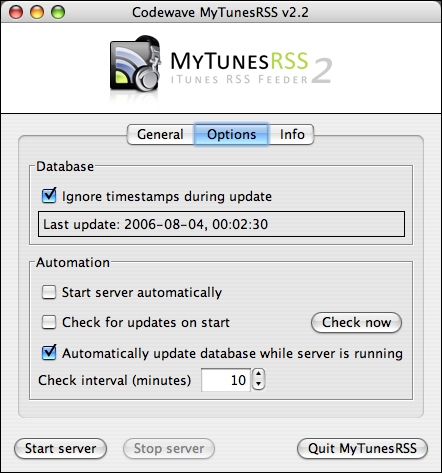
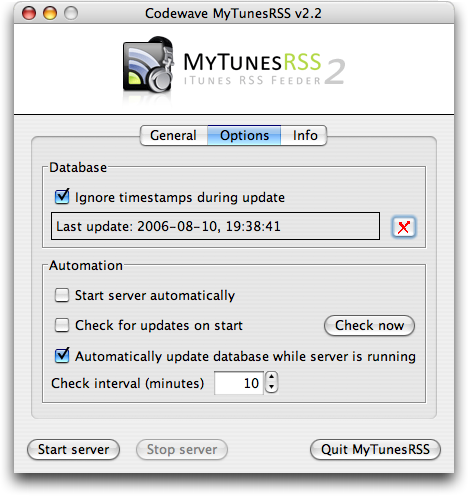
git-svn-id: svn://127.0.0.1/MyTunesRss/trunk@1272 6cd82e91-2702-0410-863d-86aa3370aca5

Changed region(s): [[0.0, 0.0, 1.0, 1.0]]

diff --git a/etc/documentation/docs/de/config.html b/etc/documentation/docs/de/config.html
@@ -14,103 +14,105 @@
 
 <div id="body">
 
-    <div id="content">
+<div id="content">
 
-        <div id="sidebar">
+    <div id="sidebar">
 
-            <ul class="links">
-                <li><a href="intro.html">Einführung</a></li>
-                <li><a href="sysreqs.html">Systemanforderungen</a></li>
-                <li><a href="versions.html">Versionshistorie</a></li>
-                <li><a href="startup.html">MyTunesRSS starten</a></li>
-                <li><a href="config.html">Die Konfiguration</a></li>
-                <li><a href="web_intro.html">Die Webanwendung</a></li>
-                <ul class="sub">
-                    <li><a href="web_login.html">Login</a></li>
-                    <li><a href="web_portal.html">Portal</a></li>
-                    <li><a href="web_settings.html">Einstellungen</a></li>
-                    <li><a href="web_browse.html">Bibliothek durchsuchen</a></li>
-                    <li><a href="web_playlists.html">MyTunesRSS Playlisten</a></li>
-                </ul>
-                <li><a href="license.html">Lizenzen</a></li>
-                <ul class="sub">
-                    <li><a href="lic_tomcat.html">Tomcat</a></li>
-                    <li><a href="lic_hsqldb.html">HSQL database engine</a></li>
-                    <li><a href="lic_systray.html">Systray4j Projekt</a></li>
-                    <li><a href="lic_jid3lib.html">Java MP3 ID3 Tag Library</a></li>
-                </ul>
-                <li><a href="outro.html">Kontakt</a></li>
+        <ul class="links">
+            <li><a href="intro.html">Einführung</a></li>
+            <li><a href="sysreqs.html">Systemanforderungen</a></li>
+            <li><a href="versions.html">Versionshistorie</a></li>
+            <li><a href="startup.html">MyTunesRSS starten</a></li>
+            <li><a href="config.html">Die Konfiguration</a></li>
+            <li><a href="web_intro.html">Die Webanwendung</a></li>
+            <ul class="sub">
+                <li><a href="web_login.html">Login</a></li>
+                <li><a href="web_portal.html">Portal</a></li>
+                <li><a href="web_settings.html">Einstellungen</a></li>
+                <li><a href="web_browse.html">Bibliothek durchsuchen</a></li>
+                <li><a href="web_playlists.html">MyTunesRSS Playlisten</a></li>
             </ul>
-
-        </div>
-
-        <h1>Die Konfiguration</h1>
-
-        <p>
-            Nach dem Start der Anwendung sehen Sie die Konfigurationsoberfläche. Die Einstellungen sind auf drei Seiten verteilt. Auf der ersten Seite
-            befinden sich die allgemeinen Einstellungen. </p>
-        <img src="images/general.png" alt="Allgemeine Einstellungen" />
-
-        <p>
-            Sie können den Port, auf dem der Server auf Verbindungen wartet, frei wählen. Der Standardport 8080 des Servers sollte in den meisten
-            Fällen problemlos funktionieren. Auf manchen Systemen kann die Benutzung von Portnummern unter 1024 eingeschränkt sein. </p>
-
-        <p>
-            Sie müssen zur Sicherheit ein Kennwort für den Zugriff auf die Webapplikation vergeben. Ohne ein Kennwort kann der Server nicht gestartet
-            werden. Das Kennwort wird unverschlüsselt gespeichert. Verwenden Sie daher bitte möglichst kein Kennwort, das sie an anderer Stelle für
-            den Schutz von kritischen Daten verwenden. </p>
-
-        <p>
-            Im unteren Teil der allgemeinen Einstellungen müssen Sie den Pfad zu der Datei "iTunes Music Library.xml" auf Ihrem System angeben. Sie
-            können den Pfad direkt in das Eingabefeld schreiben oder mit dem (...) Knopf suchen und auswählen. Unter Windows liegt diese Datei
-            normalerweise im Order "iTunes" unter "Eigene Musik". Auf Mac OS X sollte sie unter "iTunes" im Order "Musik" zu finden sein. </p>
-        <img src="images/options.png" alt="Optionen" />
-
-        <p>
-            Auf der zweiten Seite finden Sie weitere Optionen. Als oberstes wird der Status der in MyTunesRSS integrierten Datenbank angezeigt. In
-            dieser Datenbank hält MyTunesRSS eine Kopie der Daten aus der "iTunes Music Library.xml". Diese Datenbank wird automatisch beim Start des
-            Servers erzeugt bzw. aktualisiert. Normalerweise werden nur Titel aktualisiert, die ein Änderungsdatum nach dem Datum des letzten Updates
-            haben. Unter bestimmten Umständen kann es vorkommen, dass iTunes Daten ändert, ohne das Änderungsdatum zu aktualisieren. Wenn Sie
-            feststellen, dass MyTunesRSS nicht die aktuellen Daten anzeigt, wählen Sie einfach die Option zum Ignorieren der Zeitstempel. Ein
-            Datenbankupdate wird dann je nach Größe Ihrer iTunes Bibliothek länger dauern. Wenn sie feststellen, dass das Update mit gewählter Option
-            schnell genug ist, können Sie sie auch gewählt lassen, um sicher zu sein, dass die Daten in MyTunesRSS immer aktuell sind.</p>
-
-        <p>
-            Unter "Automatisierung" könnnen Sie wählen, ob der integrierte Server beim Start von MyTunesRSS automatisch gestartet werden soll. Mit
-            dieser Option können Sie MyTunesRSS in die Startobjekte Ihres Systems legen und damit beim Systemstart direkt komplett einsatzbereit
-            machen. Weiterhin können Sie bestimmen, ob beim Start der Anwendung automatisch nach neueren Versionen von MyTunesRSS gesucht werden soll.
-            Diese Option steht nicht zur Verfügung, wenn Sie den Server automatisch starten lassen. Sie können hier auch manuell nach einer neuen
-            Version suchen. Bei laufendem Server können Änderungen an iTunes optional automatisch in die MyTunesRSS Datenbank übernommen werden.
-            Aktivieren Sie die entsprechende Option und legen Sie fest, alle wieviel Minuten MyTunesRSS nach Änderungen an der "iTunes Music
-            Library.xml" schauen soll. Dieses ist die Zeit zwischen dem Ende eines Updates und dem Beginn der nächsten Prüfung, d.h. wenn ein Update 5
-            Minuten dauert und die Zeit auf 10 Minuten gestellt ist, beginnt die zweite Prüfung 15 Minuten nach dem Start der ersten.</p>
-
-        <img src="images/info.png" alt="Informationen" />
-
-        <p>
-            Auf der dritten Seite finden Sie Informationen zum Entwicklerteam und die Bitte um eine Spende, falls das Programm Ihnen gefällt. Wenn Sie
-            Probleme mit MyTunesRSS haben und eine Supportanfrage stellen, können Sie auf dieser Seite die aktuelle Logdatei in ein Zip-Archiv
-            speichern und an die Supportmail anhängen. </p>
-
-        <p>
-            Unter den Konfigurationsseiten befinden sich die Knöpfe zum Starten und Stoppen des Servers und zum Beenden der Anwendung. Während der
-            Server läuft, können Sie keine Einstellungen verändern. Wenn der Server gestartet wurde, wird in der Statuszeile auf der ersten
-            Konfigurationsseite die Adresse angezeigt, unter der der Server in Ihrem lokalen Netz erreichbar ist. Üblicherweise haben Sie eine einzige
-            lokale Adresse (z.B. 192.168.0.2). Wenn Sie mehrere Netzwerkschnittstellen haben (z.B. ein LAN und ein WLAN), dann haben Sie auch mehrere
-            lokale Adressen. Es wird nur eine davon in der Statuszeile angezeigt. Wenn Sie alle lokalen Adressen sehen möchten, klicken Sie auf den
-            Informationsknopf neben der Statusanzeige. Es wird auch Ihre externe Adresse angezeigt, wenn Sie mit dem Internet verbunden sind und die
-            Adresse ermittelt werden kann. Im Statusfenster werden außerdem alle aktuellen Verbindungen zu MyTunesRSS angezeigt.</p>
-
-        <img src="images/serverinfo.png" alt="Server Informationen" width="426" />
-
-        <p>
-            Beim Beenden des Programmes wird ein eventuell noch laufender Server zuerst gestoppt. Die Fensterposition und sämtliche Einstellunegn
-            werden automatisch für den nächsten Start gespeichert.</p>
+            <li><a href="license.html">Lizenzen</a></li>
+            <ul class="sub">
+                <li><a href="lic_tomcat.html">Tomcat</a></li>
+                <li><a href="lic_hsqldb.html">HSQL database engine</a></li>
+                <li><a href="lic_systray.html">Systray4j Projekt</a></li>
+                <li><a href="lic_jid3lib.html">Java MP3 ID3 Tag Library</a></li>
+            </ul>
+            <li><a href="outro.html">Kontakt</a></li>
+        </ul>
 
     </div>
 
-    <div id="footer">
-        &copy; 2006 <a href="http://www.codewave.de" target="_blank">Codewave Software</a></div>
+    <h1>Die Konfiguration</h1>
+
+    <p>
+        Nach dem Start der Anwendung sehen Sie die Konfigurationsoberfläche. Die Einstellungen sind auf drei Seiten verteilt. Auf der ersten Seite
+        befinden sich die allgemeinen Einstellungen. </p>
+    <img src="images/general.png" alt="Allgemeine Einstellungen" />
+
+    <p>
+        Sie können den Port, auf dem der Server auf Verbindungen wartet, frei wählen. Der Standardport 8080 des Servers sollte in den meisten Fällen
+        problemlos funktionieren. Auf manchen Systemen kann die Benutzung von Portnummern unter 1024 eingeschränkt sein. </p>
+
+    <p>
+        Sie müssen zur Sicherheit ein Kennwort für den Zugriff auf die Webapplikation vergeben. Ohne ein Kennwort kann der Server nicht gestartet
+        werden. Das Kennwort wird unverschlüsselt gespeichert. Verwenden Sie daher bitte möglichst kein Kennwort, das sie an anderer Stelle für den
+        Schutz von kritischen Daten verwenden. </p>
+
+    <p>
+        Im unteren Teil der allgemeinen Einstellungen müssen Sie den Pfad zu der Datei "iTunes Music Library.xml" auf Ihrem System angeben. Sie können
+        den Pfad direkt in das Eingabefeld schreiben oder mit dem (...) Knopf suchen und auswählen. Unter Windows liegt diese Datei normalerweise im
+        Order "iTunes" unter "Eigene Musik". Auf Mac OS X sollte sie unter "iTunes" im Order "Musik" zu finden sein. </p>
+    <img src="images/options.png" alt="Optionen" />
+
+    <p>
+        Auf der zweiten Seite finden Sie weitere Optionen. Als oberstes wird der Status der in MyTunesRSS integrierten Datenbank angezeigt. In dieser
+        Datenbank hält MyTunesRSS eine Kopie der Daten aus der "iTunes Music Library.xml". Diese Datenbank wird automatisch beim Start des Servers
+        erzeugt bzw. aktualisiert. Normalerweise werden nur Titel aktualisiert, die ein Änderungsdatum nach dem Datum des letzten Updates haben. Unter
+        bestimmten Umständen kann es vorkommen, dass iTunes Daten ändert, ohne das Änderungsdatum zu aktualisieren. Wenn Sie feststellen, dass
+        MyTunesRSS nicht die aktuellen Daten anzeigt, wählen Sie einfach die Option zum Ignorieren der Zeitstempel. Ein Datenbankupdate wird dann je
+        nach Größe Ihrer iTunes Bibliothek länger dauern. Wenn sie feststellen, dass das Update mit gewählter Option schnell genug ist, können Sie sie
+        auch gewählt lassen, um sicher zu sein, dass die Daten in MyTunesRSS immer aktuell sind. Wie Sie extreme Probleme mit der Datenbank haben,
+        können Sie diese mit dem Knopf neben dem Status komplett löschen und neu erstellen. Beachten Sie jedoch, dass in MyTunesRSS erstellte
+        Playlisten dadurch verloren gehen.</p>
+
+    <p>
+        Unter "Automatisierung" könnnen Sie wählen, ob der integrierte Server beim Start von MyTunesRSS automatisch gestartet werden soll. Mit dieser
+        Option können Sie MyTunesRSS in die Startobjekte Ihres Systems legen und damit beim Systemstart direkt komplett einsatzbereit machen.
+        Weiterhin können Sie bestimmen, ob beim Start der Anwendung automatisch nach neueren Versionen von MyTunesRSS gesucht werden soll. Diese
+        Option steht nicht zur Verfügung, wenn Sie den Server automatisch starten lassen. Sie können hier auch manuell nach einer neuen Version
+        suchen. Bei laufendem Server können Änderungen an iTunes optional automatisch in die MyTunesRSS Datenbank übernommen werden. Aktivieren Sie
+        die entsprechende Option und legen Sie fest, alle wieviel Minuten MyTunesRSS nach Änderungen an der "iTunes Music Library.xml" schauen soll.
+        Dieses ist die Zeit zwischen dem Ende eines Updates und dem Beginn der nächsten Prüfung, d.h. wenn ein Update 5 Minuten dauert und die Zeit
+        auf 10 Minuten gestellt ist, beginnt die zweite Prüfung 15 Minuten nach dem Start der ersten.</p>
+
+    <img src="images/info.png" alt="Informationen" />
+
+    <p>
+        Auf der dritten Seite finden Sie Informationen zum Entwicklerteam und die Bitte um eine Spende, falls das Programm Ihnen gefällt. Wenn Sie
+        Probleme mit MyTunesRSS haben und eine Supportanfrage stellen, können Sie auf dieser Seite die aktuelle Logdatei in ein Zip-Archiv speichern
+        und an die Supportmail anhängen. </p>
+
+    <p>
+        Unter den Konfigurationsseiten befinden sich die Knöpfe zum Starten und Stoppen des Servers und zum Beenden der Anwendung. Während der Server
+        läuft, können Sie keine Einstellungen verändern. Wenn der Server gestartet wurde, wird in der Statuszeile auf der ersten Konfigurationsseite
+        die Adresse angezeigt, unter der der Server in Ihrem lokalen Netz erreichbar ist. Üblicherweise haben Sie eine einzige lokale Adresse (z.B.
+        192.168.0.2). Wenn Sie mehrere Netzwerkschnittstellen haben (z.B. ein LAN und ein WLAN), dann haben Sie auch mehrere lokale Adressen. Es wird
+        nur eine davon in der Statuszeile angezeigt. Wenn Sie alle lokalen Adressen sehen möchten, klicken Sie auf den Informationsknopf neben der
+        Statusanzeige. Es wird auch Ihre externe Adresse angezeigt, wenn Sie mit dem Internet verbunden sind und die Adresse ermittelt werden kann. Im
+        Statusfenster werden außerdem alle aktuellen Verbindungen zu MyTunesRSS angezeigt.</p>
+
+    <img src="images/serverinfo.png" alt="Server Informationen" width="426" />
+
+    <p>
+        Beim Beenden des Programmes wird ein eventuell noch laufender Server zuerst gestoppt. Die Fensterposition und sämtliche Einstellunegn werden
+        automatisch für den nächsten Start gespeichert.</p>
+
+</div>
+
+<div id="footer">
+    &copy; 2006 <a href="http://www.codewave.de" target="_blank">Codewave Software</a></div>
 
 </div>
 

diff --git a/etc/documentation/docs/en/config.html b/etc/documentation/docs/en/config.html
@@ -71,7 +71,9 @@
             tracks with a modification date later than the last update are refreshed. In some cases it is possible that iTunes refreshed certain data
             without updating the modification time. If you encounter any problems with refreshing, just check the option to ignore timestamps.
             Depending on your iTunes library size, an update will take longer with this option checked. If it does not take too long, you can always
-            have the option checked to be sure the MyTunesRSS database is always in sync with iTunes.</p>
+            have the option checked to be sure the MyTunesRSS database is always in sync with iTunes. If you have severe problems with the database,
+            you can also delete is completely and have it rebuilt from scratch. Click the button next to the status to do so. Be warned that playlists
+            created within MyTunesRSS will be lost by doing so.</p>
 
         <p>
             In "automation" you can select to start the server automatically when starting MyTunesRSS. This way you can put the application into your

diff --git a/etc/documentation/docs/de/versions.html b/etc/documentation/docs/de/versions.html
@@ -53,6 +53,7 @@
         <h2>Version 2.2.3</h2>
         <span class="date">10. August 2006</span>
         <ul>
+        <li>Button zum Löschen und Erzeugen der Datenbank</li>
         <li>MP3 Grafiken auf der Trackinfo Seite (Link im RSS Eintrag) anzeigen</li>
         <li>Mime Type für Download von Tracks war korrupt</li>
         <li>Fehler behoben, wenn bei Serverinfo keine Adresse gefunden wurde</li>

diff --git a/etc/documentation/docs/en/versions.html b/etc/documentation/docs/en/versions.html
@@ -53,6 +53,7 @@
         <h2>Version 2.2.3</h2>
         <span class="date">August 10, 2006</span>
         <ul>
+        <li>Button for deleting and recreating the database</li>
         <li>Display artwork on track info page (RSS item link)</li>
         <li>Fixed mime type bug when downloading tracks</li>
         <li>Fixed bug when no address was found in server info</li>
